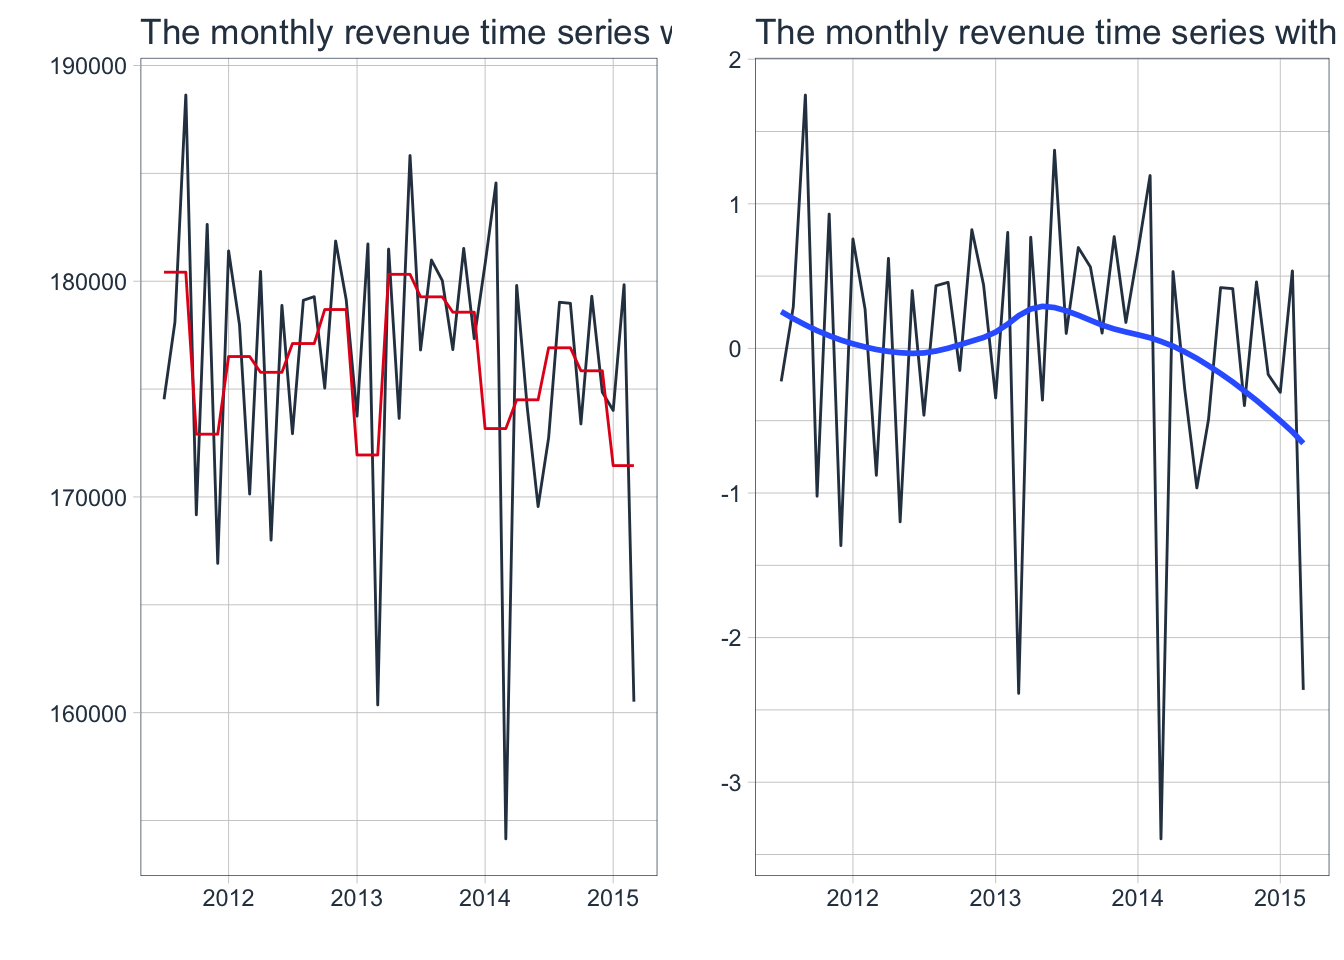
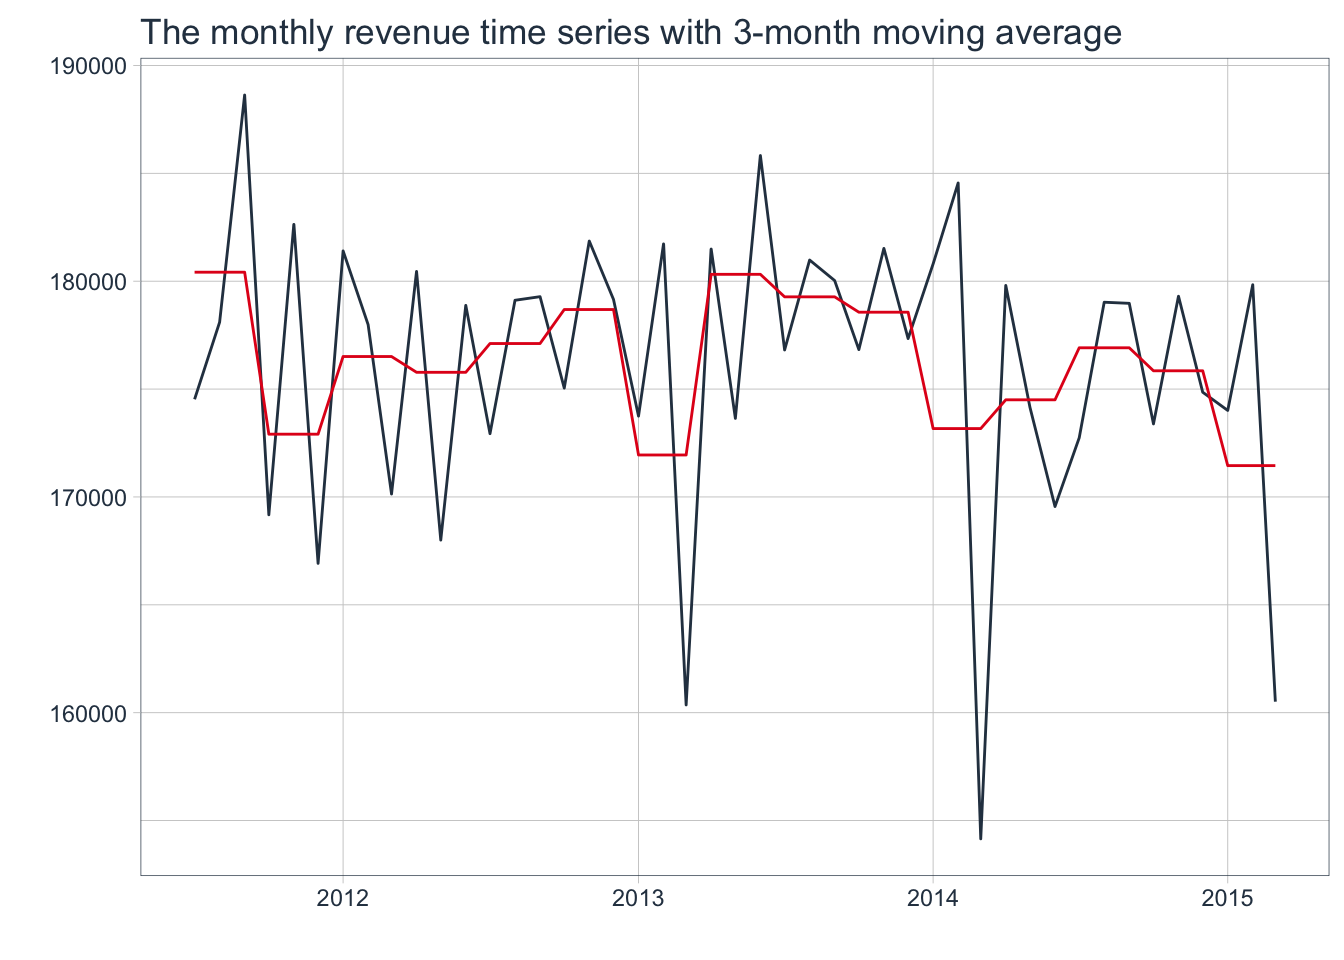
added some comments on time series

diff --git a/content/post/2021-10-28-why-you-must-apply-rfm-matrics-to-your-company-right-away/index.en.html b/content/post/2021-10-28-why-you-must-apply-rfm-matrics-to-your-company-right-away/index.en.html
@@ -311,7 +311,7 @@ $1,436
   scale_fill_tq() +
   theme_tq()</code></pre>
 <p><img src="{{< blogdown/postref >}}index.en_files/figure-html/unnamed-chunk-10-1.png" width="672" />
-The mean, median and other sample statistics had trouble to explain this difference in</p>
+The mean, median and other sample statistics had trouble to explain this proportional difference of these two regions. I believe this is where it gets tricky. Repeated same-day purchase records themselves are not a meaningful feature, but due to “confonding” effects it behaviour as if it has some predictive power between the two groups. Perhaps it is the <strong>accessibility</strong> upon purchase act as a confounder between monetary value and same-day purchase.</p>
 <pre class="r"><code>cust_dup_tbl %&gt;% 
   ggplot(aes(x = monetary, fill = dup)) +
   geom_density(alpha = 0.5) +
@@ -348,7 +348,7 @@ The mean, median and other sample statistics had trouble to explain this differe
 
 timespan_year &lt;- format(as.numeric(timespan_day/365.24), digits = 3)
 
-cat(&quot;There is&quot;,paste0(timespan_year), &quot;annual cycle worth of data&quot;)</code></pre>
+cat(&quot;There is&quot;,paste0(timespan_year),&quot;annual cycle worth of data&quot;)</code></pre>
 <pre><code>## There is 3.83 annual cycle worth of data</code></pre>
 <p>Broadly speaking, there are two types of time series data: stationary and non-stationary time series. These are defined as whether their statistical properties, in general, mean and variance is independent (stationary) or dependent (non-stationary) with time. Any human interactive data wont be stationary, there always be some trend or seasonality that enables us to decompose from its series. In other words, understanding these components will aid tracking down their purchasing patterns.</p>
 <pre class="r"><code>daily_pur &lt;- trans_df %&gt;%
@@ -374,7 +374,7 @@ monthly_pur &lt;- trans_df %&gt;%
   dplyr::group_by(month) %&gt;%
   dplyr::summarise(frequency = n(),
                    sales     = sum(amount)) %&gt;% ungroup()</code></pre>
-<p>The volatile daily and weekly transcations data can bury many useful information such as trend or activity variance.</p>
+<p>The volatility of daily and weekly transcation data can bury many useful information such as trend or activity variance. The moving average smoothing (red) removes fine-grained variation between the time steps by averaging values within given window size which slides along the time series.</p>
 <pre class="r"><code>daily_pur %&gt;% 
   mutate_by_time(.by = &quot;week&quot;,
                  sales_mean = mean(sales)) %&gt;% 
@@ -391,7 +391,24 @@ monthly_pur &lt;- trans_df %&gt;%
                    .smooth = FALSE,
                    .interactive = FALSE) </code></pre>
 <p><img src="{{< blogdown/postref >}}index.en_files/figure-html/unnamed-chunk-14-2.png" width="672" /></p>
-<pre class="r"><code>P4_monthly_plot &lt;- monthly_pur %&gt;% 
+<p>Now the monthly revenue time series reveals some useful components.
+*
+revenues with its worst performance. shows +3 years overall descending trend.</p>
+<pre class="r"><code>outlier_detection &lt;- function(x) {
+  x[x &gt; quantile(x, .95, na.rm = T)] 
+  x[x &lt; quantile(x, .05, na.rm = T)] 
+}
+
+mon_sd_tbl &lt;- monthly_pur %&gt;%
+  mutate(revenue       = sales) %&gt;% 
+  mutate(revenue_log   = log(sales)) %&gt;% 
+  mutate(revenue_sd    = standardize_vec(revenue_log),
+         outlier       = ifelse(revenue %in% outlier_detection(revenue) == TRUE, 1, NA),
+         revenue_text  = case_when(outlier == 1 ~ revenue, 
+                                   TRUE~ outlier),
+         revenue_text  = scales::dollar(revenue_text, scale = 1e-3, suffix = &quot;K&quot;))
+         
+monthly_pur %&gt;% 
   mutate_by_time(.by = &quot;3 month&quot;,
                  sales_mean = mean(sales)) %&gt;% 
   pivot_longer(contains(&quot;sales&quot;)) %&gt;% 
@@ -399,28 +416,102 @@ monthly_pur &lt;- trans_df %&gt;%
                    .smooth      = FALSE,
                    .legend_show = FALSE,
                    .title       = &quot;The monthly revenue time series with 3-month moving average&quot;,
-                   .interactive = FALSE) 
-
-mon_sd_tbl &lt;- monthly_pur %&gt;% 
-  mutate(revenue = log(sales)) %&gt;% 
-  mutate(revenue = standardize_vec(revenue)) 
-
-P4_monthlysd_plot &lt;- mon_sd_tbl %&gt;% 
-  plot_time_series(month, revenue,
-                   .title       = &quot;The monthly revenue time series with its standard deviation&quot;,
-                   .interactive = FALSE) 
-
-gridExtra::grid.arrange(P4_monthly_plot, P4_monthlysd_plot, ncol = 2)</code></pre>
+                   .interactive = FALSE)</code></pre>
 <p><img src="{{< blogdown/postref >}}index.en_files/figure-html/unnamed-chunk-15-1.png" width="672" /></p>
+<pre class="r"><code>mon_sd_tbl %&gt;% 
+  ggplot(aes(x = month, y = (revenue_sd))) +
+  geom_line(size = 0.5, linetype = 1) +
+  geom_smooth(method   = &quot;lm&quot;, se = FALSE) +
+  geom_label(aes(label = revenue_text,
+             frontface = &quot;bold&quot;,
+             vjust     = 0.5,
+             hjust     = 1.2,
+             color     = &quot;red&quot;)) +
+  labs(
+     title    = &quot;Monthly Revenue Time Series: We are at the end of seasonal downturn!&quot;,
+     x        = &quot;Year&quot;,
+     y        = &quot;Revenue&quot;
+  ) +
+  theme_tq()</code></pre>
+<p><img src="{{< blogdown/postref >}}index.en_files/figure-html/unnamed-chunk-15-2.png" width="672" /></p>
 <p>Perspective Notes :
 [1] The historical data shows there are hardly any correlation between date and customer behaviour, likely to be a random walk model
 [2] There is a noticeable correlation between customer id and their purchasing behaviour. I anticipate could be due to number of reasons, perhaps, the primary key was organised by geographical manner, time, or other possible useful information held behind.</p>
 <pre class="r"><code>trans_df %&gt;%
+  mutate(quarter = quarter(date)) %&gt;% 
+  dplyr::group_by(quarter) %&gt;%
+  dplyr::summarise(frequency = n(),
+                   sales     = sum(amount) %&gt;% format_dollar()) %&gt;% 
+  set_names(c(&quot;Quarter&quot;, &quot;Frequency&quot;, &quot;Revenue&quot;)) %&gt;%
+  kbl() %&gt;% 
+  kable_material_dark()</code></pre>
+<table class=" lightable-material-dark" style="font-family: &quot;Source Sans Pro&quot;, helvetica, sans-serif; margin-left: auto; margin-right: auto;">
+<thead>
+<tr>
+<th style="text-align:right;">
+Quarter
+</th>
+<th style="text-align:right;">
+Frequency
+</th>
+<th style="text-align:left;">
+Revenue
+</th>
+</tr>
+</thead>
+<tbody>
+<tr>
+<td style="text-align:right;">
+1
+</td>
+<td style="text-align:right;">
+30837
+</td>
+<td style="text-align:left;">
+$2,005,838
+</td>
+</tr>
+<tr>
+<td style="text-align:right;">
+2
+</td>
+<td style="text-align:right;">
+28419
+</td>
+<td style="text-align:left;">
+$1,846,017
+</td>
+</tr>
+<tr>
+<td style="text-align:right;">
+3
+</td>
+<td style="text-align:right;">
+32923
+</td>
+<td style="text-align:left;">
+$2,138,577
+</td>
+</tr>
+<tr>
+<td style="text-align:right;">
+4
+</td>
+<td style="text-align:right;">
+32821
+</td>
+<td style="text-align:left;">
+$2,133,557
+</td>
+</tr>
+</tbody>
+</table>
+<pre class="r"><code>trans_df %&gt;%
   mutate(month = month(date, label = TRUE, abbr = FALSE)) %&gt;% 
   dplyr::group_by(month) %&gt;%
-  dplyr::summarise(frequency = n(),
-                   sales     = sum(amount) %&gt;%  format_dollar()) %&gt;% 
-  set_names(c(&quot;Month&quot;, &quot;Frequency&quot;, &quot;Revenue&quot;)) %&gt;%
+  dplyr::summarise(frequency   = n(),
+                   tot_revenue = sum(amount) %&gt;% format_dollar()) %&gt;%  
+  set_names(c(&quot;Month&quot;, &quot;Total No Purchase&quot;, &quot;Total Revenue&quot;)) %&gt;%
   kbl() %&gt;% 
   kable_material_dark()</code></pre>
 <table class=" lightable-material-dark" style="font-family: &quot;Source Sans Pro&quot;, helvetica, sans-serif; margin-left: auto; margin-right: auto;">
@@ -430,10 +521,10 @@ gridExtra::grid.arrange(P4_monthly_plot, P4_monthlysd_plot, ncol = 2)</code></pr
 Month
 </th>
 <th style="text-align:right;">
-Frequency
+Total No Purchase
 </th>
 <th style="text-align:left;">
-Revenue
+Total Revenue
 </th>
 </tr>
 </thead>
@@ -572,75 +663,6 @@ $709,964
 </tr>
 </tbody>
 </table>
-<pre class="r"><code>trans_df %&gt;%
-  mutate(quarter = quarter(date)) %&gt;% 
-  dplyr::group_by(quarter) %&gt;%
-  dplyr::summarise(frequency = n(),
-                   sales     = sum(amount) %&gt;% format_dollar()) %&gt;% 
-  set_names(c(&quot;Quarter&quot;, &quot;Frequency&quot;, &quot;Revenue&quot;)) %&gt;%
-  kbl() %&gt;% 
-  kable_material_dark()</code></pre>
-<table class=" lightable-material-dark" style="font-family: &quot;Source Sans Pro&quot;, helvetica, sans-serif; margin-left: auto; margin-right: auto;">
-<thead>
-<tr>
-<th style="text-align:right;">
-Quarter
-</th>
-<th style="text-align:right;">
-Frequency
-</th>
-<th style="text-align:left;">
-Revenue
-</th>
-</tr>
-</thead>
-<tbody>
-<tr>
-<td style="text-align:right;">
-1
-</td>
-<td style="text-align:right;">
-30837
-</td>
-<td style="text-align:left;">
-$2,005,838
-</td>
-</tr>
-<tr>
-<td style="text-align:right;">
-2
-</td>
-<td style="text-align:right;">
-28419
-</td>
-<td style="text-align:left;">
-$1,846,017
-</td>
-</tr>
-<tr>
-<td style="text-align:right;">
-3
-</td>
-<td style="text-align:right;">
-32923
-</td>
-<td style="text-align:left;">
-$2,138,577
-</td>
-</tr>
-<tr>
-<td style="text-align:right;">
-4
-</td>
-<td style="text-align:right;">
-32821
-</td>
-<td style="text-align:left;">
-$2,133,557
-</td>
-</tr>
-</tbody>
-</table>
 <pre class="r"><code>resp &lt;- resp_df_raw %&gt;% 
   select(customer_id, response) %&gt;% 
   setNames(c(&quot;customer_id&quot;, &quot;campaign&quot;))
@@ -649,9 +671,6 @@ pre_rfm_df &lt;- trans_df %&gt;%
   left_join(resp, by = &quot;customer_id&quot;) %&gt;% 
   mutate(campaign = case_when(campaign == 1 ~ 1,
                                 TRUE ~ 0))</code></pre>
-<pre class="r"><code>colSums(is.na(pre_rfm_df))</code></pre>
-<pre><code>## customer_id        date      amount    campaign 
-##           0           0           0           0</code></pre>
 <pre class="r"><code>pre_rfm_df %&gt;% 
   mutate(month = month(date)) %&gt;%
   group_by(campaign) %&gt;% 
@@ -755,22 +774,22 @@ cmpg_vis_df %&gt;% plot_time_series(week,
                                  revenue_Y_cmpg,
                                  .smooth = FALSE,
                                  .interactive = FALSE) </code></pre>
-<p><img src="{{< blogdown/postref >}}index.en_files/figure-html/unnamed-chunk-21-1.png" width="672" /></p>
+<p><img src="{{< blogdown/postref >}}index.en_files/figure-html/unnamed-chunk-19-1.png" width="672" /></p>
 <pre class="r"><code>cmpg_vis_df %&gt;% plot_time_series(week, 
                                  revenue_N_cmpg,
                                  .smooth = FALSE,
                                  .interactive = FALSE) </code></pre>
-<p><img src="{{< blogdown/postref >}}index.en_files/figure-html/unnamed-chunk-21-2.png" width="672" /></p>
+<p><img src="{{< blogdown/postref >}}index.en_files/figure-html/unnamed-chunk-19-2.png" width="672" /></p>
 <pre class="r"><code>cmpg_vis_df %&gt;% plot_time_series(week, 
                                  no_pur_Y_cmpg,
                                  .smooth = FALSE,
                                  .interactive = FALSE) </code></pre>
-<p><img src="{{< blogdown/postref >}}index.en_files/figure-html/unnamed-chunk-21-3.png" width="672" /></p>
+<p><img src="{{< blogdown/postref >}}index.en_files/figure-html/unnamed-chunk-19-3.png" width="672" /></p>
 <pre class="r"><code>cmpg_vis_df %&gt;% plot_time_series(week, 
                                  no_pur_N_cmpg,
                                  .smooth = FALSE,
                                  .interactive = FALSE) </code></pre>
-<p><img src="{{< blogdown/postref >}}index.en_files/figure-html/unnamed-chunk-21-4.png" width="672" /></p>
+<p><img src="{{< blogdown/postref >}}index.en_files/figure-html/unnamed-chunk-19-4.png" width="672" /></p>
 <p>the RFM scoring possess less weight on customer next purchasing prediction value. By means, although RFM metrics yet remain its purpose of segmenting superior to sleeping customer but it would be a good predictor index for estimating who would be most likely to purchase in given time period. As the stationary means it occurs by chance.</p>
 </div>
 </div>
